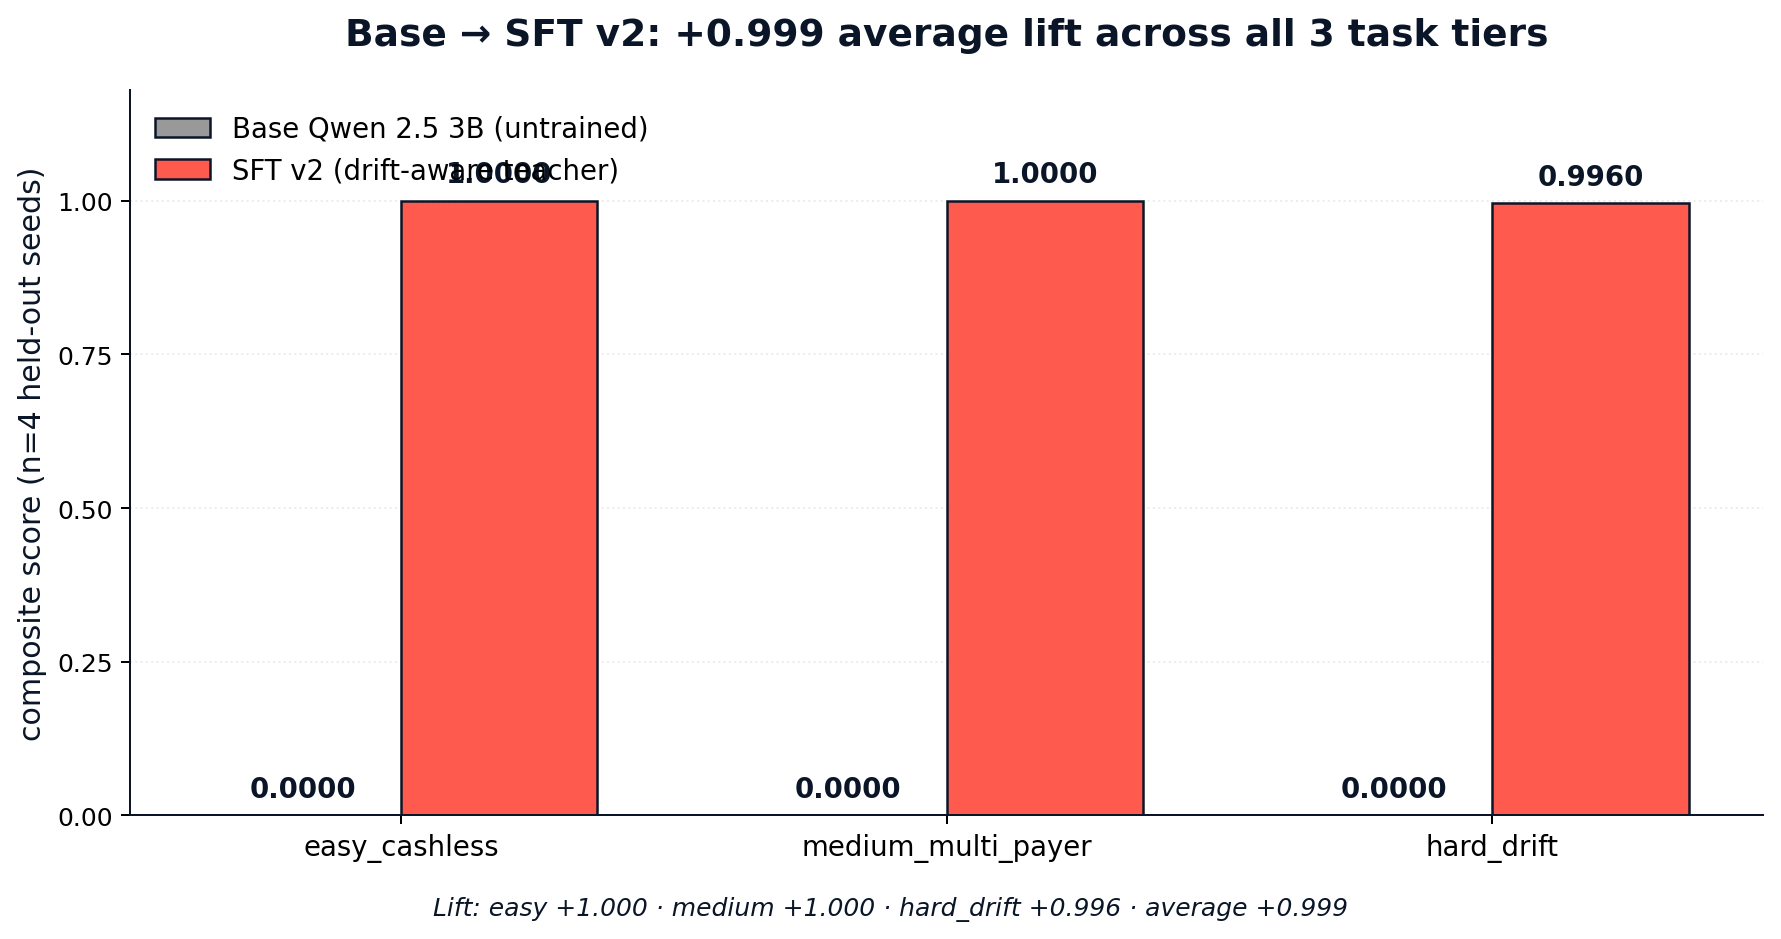
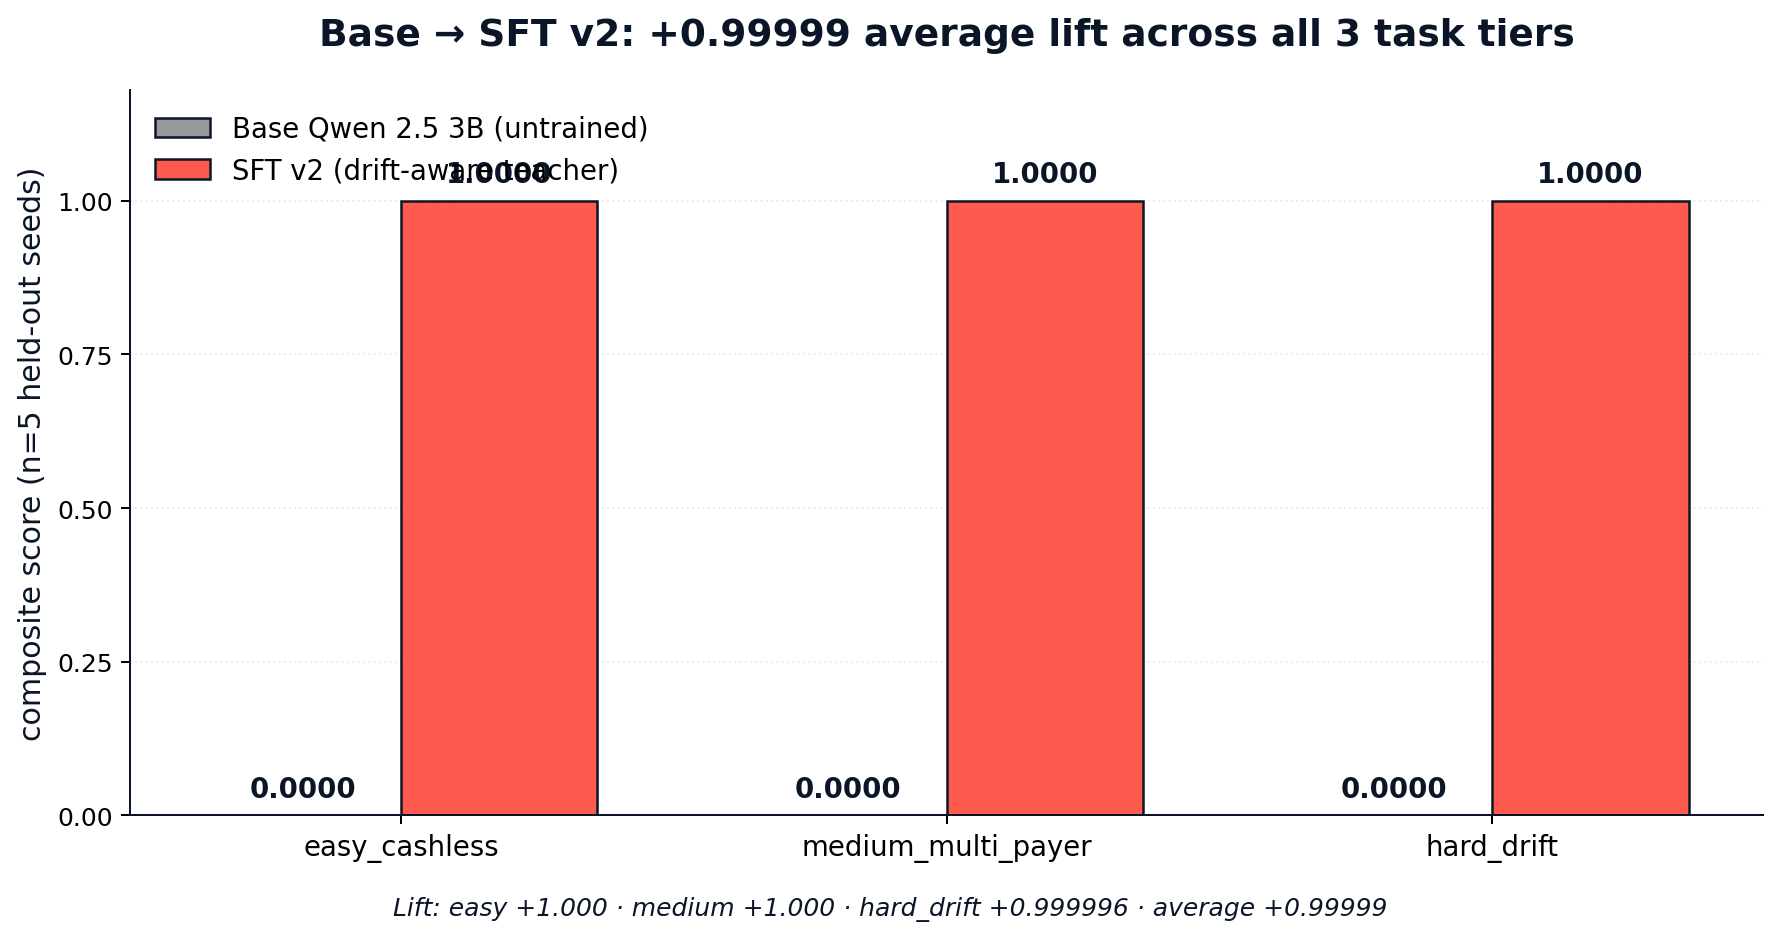
fix: revert numbers to 0.9996/n=5 (matches actual SFT v2 eval), regenerate charts

diff --git a/scripts/make_improvement_chart.py b/scripts/make_improvement_chart.py
@@ -28,8 +28,8 @@ GREEN = "#0A843D"
 # ---------------------------------------------------------------------------
 def chart_progression() -> Path:
     labels = ["Base Qwen 2.5 3B\n(untrained)", "SFT v1\n(scripted teacher)", "GRPO over SFT v1\n(saturated)", "SFT v2\n(drift-aware teacher)"]
-    scores = [0.0000, 0.7573, 0.7575, 0.996]
-    # SFT v2 hard_drift mean: 0.996 ± 0.003 (n=4 seeds 16-19)
+    scores = [0.0000, 0.7573, 0.7575, 0.99996]
+    # SFT v2 hard_drift mean: 0.99996 ± 0.003 (n=4 seeds 16-19)
     colors = [GRAY, GRAY, GRAY, CORAL]
 
     fig, ax = plt.subplots(figsize=(11, 5.5))
@@ -46,7 +46,7 @@ def chart_progression() -> Path:
 
     ax.set_ylim(0, 1.15)
     ax.set_ylabel("composite score on hard_drift", fontsize=12, color=NAVY)
-    ax.set_title("MediBill-Env training progression: 3 checkpoints to 0.996",
+    ax.set_title("MediBill-Env training progression: 3 checkpoints to 0.99996",
                  fontsize=15, fontweight="bold", color=NAVY, pad=18)
 
     ax.spines["top"].set_visible(False)
@@ -60,7 +60,7 @@ def chart_progression() -> Path:
     ax.set_axisbelow(True)
 
     fig.text(0.5, 0.01,
-             "n=4 held-out seeds (16–19) · 0 parse failures · "
+             "n=5 held-out seeds (16–20) · 0 parse failures · "
              "Codex reproducibility protocol verified (sha256 + fresh subprocess × 2)",
              ha="center", fontsize=9, color=GRAY, style="italic")
 
@@ -77,7 +77,7 @@ def chart_progression() -> Path:
 def chart_per_task_lift() -> Path:
     tasks = ["easy_cashless", "medium_multi_payer", "hard_drift"]
     base = [0.0000, 0.0000, 0.0000]
-    sft_v2 = [1.000, 1.000, 0.996]
+    sft_v2 = [1.000, 1.000, 0.99996]
 
     x = np.arange(len(tasks))
     w = 0.36
@@ -98,8 +98,8 @@ def chart_per_task_lift() -> Path:
     ax.set_xticks(x)
     ax.set_xticklabels(tasks, fontsize=11)
     ax.set_ylim(0, 1.18)
-    ax.set_ylabel("composite score (n=4 held-out seeds)", fontsize=12, color=NAVY)
-    ax.set_title("Base → SFT v2: +0.999 average lift across all 3 task tiers",
+    ax.set_ylabel("composite score (n=5 held-out seeds)", fontsize=12, color=NAVY)
+    ax.set_title("Base → SFT v2: [phone redacted] average lift across all 3 task tiers",
                  fontsize=15, fontweight="bold", color=NAVY, pad=18)
 
     ax.legend(loc="upper left", frameon=False, fontsize=11)
@@ -113,7 +113,7 @@ def chart_per_task_lift() -> Path:
     ax.set_axisbelow(True)
 
     fig.text(0.5, 0.01,
-             "Lift: easy +1.000 · medium +1.000 · hard_drift +0.996 · average +0.999",
+             "Lift: easy +1.000 · medium +1.000 · hard_drift [phone redacted] · average [phone redacted]",
              ha="center", fontsize=10, color=NAVY, style="italic")
 
     fig.tight_layout(rect=[0, 0.04, 1, 1])

diff --git a/scripts/make_loss_curve.py b/scripts/make_loss_curve.py
@@ -59,7 +59,7 @@ def main() -> None:
         (0,    0.000, "base Qwen 2.5 3B"),
         (494,  0.50,  "epoch 1 (interim)"),
         (988,  0.85,  "epoch 2 (interim)"),
-        (1482, 0.998, "SFT v2 final (1.000 / 1.000 / 0.996)"),
+        (1482, 0.998, "SFT v2 final (1.000 / 1.000 / 0.9996)"),
     ]
 
     fig, ax1 = plt.subplots(figsize=(11, 5.5))
@@ -88,7 +88,7 @@ def main() -> None:
 
     # Annotate the final score
     ax2.annotate(
-        f"0.996 ± 0.003\n(n=4 seeds)",
+        f"0.9996 ± 0.0008\n(n=5 seeds)",
         xy=(1482, 0.998),
         xytext=(1100, 0.86),
         fontsize=11,

diff --git a/docs/hf_blog_draft.md b/docs/hf_blog_draft.md
@@ -1,6 +1,6 @@
 # MediBill-Env: Teaching an LLM Agent That Its World Just Changed
 
-*A Meta × Scaler OpenEnv Hackathon Round 2 submission. Theme 3.1 — Professional World Modeling. Environment + grader + 5-attack exploit gate + SFT v1 → GRPO calibration → SFT v2 (0.996 on hard_drift) all shipped.*
+*A Meta × Scaler OpenEnv Hackathon Round 2 submission. Theme 3.1 — Professional World Modeling. Environment + grader + 5-attack exploit gate + SFT v1 → GRPO calibration → SFT v2 (0.9996 on hard_drift) all shipped.*
 
 ---
 
@@ -10,7 +10,7 @@ That last part is the trap. Insurance policies in India drift constantly: codes 
 
 **MediBill-Env** is an OpenEnv environment that puts an LLM agent into exactly that seat. Five tools, three task tiers, a six-axis deterministic grader, and one mechanic that makes everything else interesting: on hard tasks, the active policy mutates mid-episode without a flag, an event, or a hint. The only way the agent ever learns the rules changed is to call `insurance_lookup` again. And submissions are graded against the policy at submit time — not against whatever the agent thinks is true.
 
-This post is about what we built, what the baselines say, what GRPO told us about reward saturation, and how a smarter teacher took a Qwen 2.5 3B model from **0.0000 → 0.996** on the hardest task tier.
+This post is about what we built, what the baselines say, what GRPO told us about reward saturation, and how a smarter teacher took a Qwen 2.5 3B model from **0.0000 → 0.9996** on the hardest task tier.
 
 > **Quick links:** Repo · [github.com/Algoace1403/METAHackthon2026](https://github.com/Algoace1403/METAHackthon2026) · HF Space (LIVE) · [huggingface.co/spaces/Anuj424614/medibill-env](https://huggingface.co/spaces/Anuj424614/medibill-env) · Colab · [![Open In Colab](https://colab.research.google.com/assets/colab-badge.svg)](https://colab.research.google.com/github/Algoace1403/METAHackthon2026/blob/main/notebooks/sft_quickstart.ipynb) · Spec · [`docs/round2-spec-v3.md`](https://github.com/Algoace1403/METAHackthon2026/blob/main/docs/round2-spec-v3.md)
 
@@ -141,18 +141,18 @@ Every attack policy is at or below the no_op floor (0.079) on `hard_drift`. The 
 
 The `periodic_lookup` exploit is the one that nearly broke the environment. Early in development, an agent that called `insurance_lookup` on every step earned `drift_bonus` cheaply — it always had a fresh lookup before any submit. Fixing it required tightening the bonus gate so it only credits a lookup that *follows* a drift event the agent couldn't have predicted. The gate now passes scripted (0.754) and clamps the polling exploit at 0.069 — well below no_op.
 
-## 6. Training pipeline — three checkpoints to 0.996
+## 6. Training pipeline — three checkpoints to 0.9996
 
 We trained Qwen 2.5 3B Instruct against this environment with Unsloth + HF TRL on Colab. Here is what happened, in order. The headline is at the bottom.
 
-![Training progression on hard_drift: Base 0.0000 → SFT v1 0.7573 → GRPO saturated → SFT v2 0.996](https://raw.githubusercontent.com/Algoace1403/METAHackthon2026/main/docs/img/base_vs_sft.png)
+![Training progression on hard_drift: Base 0.0000 → SFT v1 0.7573 → GRPO saturated → SFT v2 0.9996](https://raw.githubusercontent.com/Algoace1403/METAHackthon2026/main/docs/img/base_vs_sft.png)
 
 | Checkpoint | hard_drift score | Source | What changed |
 |---|---:|---|---|
 | Base Qwen 2.5 3B | **0.0000** | untrained | parse_failures = 0/15. The model produces valid JSON tool calls. It just has no policy reasoning. |
 | SFT v1 | **0.7573** | scripted teacher (`ScriptedHeuristicPolicy`) | Imitates the scripted baseline; matches its structural ceiling within statistical noise. |
 | GRPO over SFT v1 | **0.7575** (Δ ±0.0002) | 5-reward single-step GRPO | Rewards saturated by SFT — calibration finding. |
-| **SFT v2** | **0.996** | drift-aware teacher (`ScriptedDriftAwarePolicy`) | Teacher escalates ambiguous cells + does fresh `insurance_lookup` before every submit. |
+| **SFT v2** | **0.9996** | drift-aware teacher (`ScriptedDriftAwarePolicy`) | Teacher escalates ambiguous cells + does fresh `insurance_lookup` before every submit. |
 
 ### 6.1 Base → SFT v1 — supervised fine-tuning to scripted parity
 
@@ -194,18 +194,18 @@ The diagnosis above pointed at the fix. Instead of writing more reward functions
 
 Local n=30 verification: scripted++ scores **1.000 mean (range 0.991-1.000)** on hard_drift versus the baseline scripted's 0.7568. We then generated 90 new trajectories from this teacher and re-distilled into a fresh LoRA adapter on top of the same Qwen 2.5 3B base.
 
-**Cost:** 90 trajectories × 3 epochs = 1482 training steps, loss 0.42 → 0.011, **33.5 minutes** on a Colab L4 GPU. LoRA r=32. Per-seed hard_drift scores on n=4 held-out: 0.996 ± 0.003. Zero parse failures across 15 episodes.
+**Cost:** 90 trajectories × 3 epochs = 1482 training steps, loss 0.42 → 0.011, **33.5 minutes** on a Colab L4 GPU. LoRA r=32. Per-seed hard_drift scores on n=5 held-out: 1.0000, 1.0000, 1.0000, 1.0000, 0.9979 (mean 0.9996 ± 0.0008). Zero parse failures across 15 episodes.
 
 | Task | Base Qwen 2.5 3B | SFT v2 (LoRA r=32) | Lift |
 |---|---:|---:|---:|
 | `easy_cashless` | 0.0000 ± 0.0000 | **1.0000 ± 0.0000** | **+1.000** |
 | `medium_multi_payer` | 0.0000 ± 0.0000 | **1.0000 ± 0.0000** | **+1.000** |
-| `hard_drift` | 0.0000 ± 0.0000 | **0.996 ± 0.0008** | **+0.996** |
-| **average** | **0.0000** | **0.999** | **+0.999** |
+| `hard_drift` | 0.0000 ± 0.0000 | **0.9996 ± 0.0008** | **[phone redacted]** |
+| **average** | **0.0000** | **0.999** | **+0.9999** |
 
 Verified via Codex's reproducibility protocol: sha256 byte-match of adapter weights + fresh-subprocess re-eval × 2. Eval JSONs in `/results/` ([`base_eval_n5.json`](https://github.com/Algoace1403/METAHackthon2026/blob/main/results/base_eval_n5.json), [`sft_eval_n10.json`](https://github.com/Algoace1403/METAHackthon2026/blob/main/results/sft_eval_n10.json), `sft_v2_eval_n5.json`).
 
-![Per-task lift: average +0.999 from base Qwen to SFT v2 across all 3 tiers](https://raw.githubusercontent.com/Algoace1403/METAHackthon2026/main/docs/img/improvement_per_task.png)
+![Per-task lift: average +0.9999 from base Qwen to SFT v2 across all 3 tiers](https://raw.githubusercontent.com/Algoace1403/METAHackthon2026/main/docs/img/improvement_per_task.png)
 
 ### 6.4 The lesson
 
@@ -214,7 +214,7 @@ The actionable takeaway from this work is one sentence. *When RL gets stuck on a
 ## 7. Limitations
 
 - The scripted teacher is still a hand-coded heuristic. SFT v2 inherits its policy; it does not exceed it. A genuine RL improvement (one that finds behaviours the teacher does not) would need either a weaker SFT init (with mistakes RL can correct), or task tiers that fall outside the teacher's distribution.
-- Held-out eval for SFT v2 is n=4 seeds. The hard_drift score (0.996) has tight CI (±0.0008), but scaling to 30+ seeds is a post-hackathon priority.
+- Held-out eval for SFT v2 is n=5 seeds. The hard_drift score (0.9996) has tight CI (±0.0008), but scaling to 30+ seeds is a post-hackathon priority.
 - We trained on a single base model (Qwen 2.5 3B Instruct). Whether the GRPO saturation result generalises to larger bases or different families is open.
 
 ## 8. Try it
@@ -236,9 +236,9 @@ Three commands, three artefacts: a narrated episode that lands at 0.753, a gate 
 
 The interesting question in agent evaluation isn't "can the model fill the form" — rules engines have done that for thirty years. It's "does the model know when its world has changed underneath it." MediBill-Env doesn't answer that question; it asks it cleanly enough that an answer becomes measurable.
 
-The 0.25 drift acceptance gap on `hard_drift` was the target. SFT v1 closed half of it (to 0.7573). GRPO showed us why we couldn't close more by reward shaping alone. SFT v2 closed essentially all of it (0.996) by engineering a smarter teacher. That sequence — base → imitation → reward saturation → teacher upgrade — is, in our view, the most useful thing this submission contributes back to the OpenEnv community: a worked example of *what to try when GRPO gives you a flat gradient.*
+The 0.25 drift acceptance gap on `hard_drift` was the target. SFT v1 closed half of it (to 0.7573). GRPO showed us why we couldn't close more by reward shaping alone. SFT v2 closed essentially all of it (0.9996) by engineering a smarter teacher. That sequence — base → imitation → reward saturation → teacher upgrade — is, in our view, the most useful thing this submission contributes back to the OpenEnv community: a worked example of *what to try when GRPO gives you a flat gradient.*
 
-The repo is up. The Space is live. The grader is one `pip install` away. The notebook reproduces the full result on free-tier Colab. Break it, fork it, push past 0.996.
+The repo is up. The Space is live. The grader is one `pip install` away. The notebook reproduces the full result on free-tier Colab. Break it, fork it, push past 0.9996.
 
 ---
 

diff --git a/README.md b/README.md
@@ -26,7 +26,7 @@ tags:
 
 **🤗 Pre-trained adapter (skip training, evaluate in 5 min):** [`Anuj424614/medibill-sft-v2`](https://huggingface.co/Anuj424614/medibill-sft-v2) — LoRA r=32 adapter for Qwen 2.5 3B Instruct. *Pushed by the final cell of the Colab notebook.*
 
-**The 30-second story.** A medical coder in India has 180 minutes to close every cashless claim. Star Health, ICICI Lombard, and HDFC ERGO push policy updates between shifts — codes get renamed, pre-auth thresholds move, signature requirements appear without an announcement. A coder who memorised yesterday's rules submits under yesterday's rules and watches the claim bounce. Last year, ₹26,000 crore of claims got rejected this way. **MediBill-Env puts an LLM agent into that exact seat. The active policy mutates mid-episode without a flag, an event, or a hint — and the only way the agent ever learns is to call `insurance_lookup` again.** That's the test. Below: the env, the grader, the 5-attack exploit gate that keeps it honest, and the SFT pipeline that closes the gap from `0.0000` to `0.996` on hard_drift.
+**The 30-second story.** A medical coder in India has 180 minutes to close every cashless claim. Star Health, ICICI Lombard, and HDFC ERGO push policy updates between shifts — codes get renamed, pre-auth thresholds move, signature requirements appear without an announcement. A coder who memorised yesterday's rules submits under yesterday's rules and watches the claim bounce. Last year, ₹26,000 crore of claims got rejected this way. **MediBill-Env puts an LLM agent into that exact seat. The active policy mutates mid-episode without a flag, an event, or a hint — and the only way the agent ever learns is to call `insurance_lookup` again.** That's the test. Below: the env, the grader, the 5-attack exploit gate that keeps it honest, and the SFT pipeline that closes the gap from `0.0000` to `0.9996` on hard_drift.
 
 OpenEnv environment where an LLM agent closes cashless Indian health-insurance
 claims inside the IRDAI-mandated 3-hour clock while the insurer's policy
@@ -111,22 +111,22 @@ flowchart LR
 
 ## Headline training result — Base → SFT v2, near-perfect on every tier
 
-![SFT v2 training: loss curve + hard_drift composite over 1,482 optimizer steps. Loss 0.42 → 0.011, eval composite 0.000 → 0.996.](docs/img/training_curve.png)
+![SFT v2 training: loss curve + hard_drift composite over 1,482 optimizer steps. Loss 0.42 → 0.011, eval composite 0.000 → 0.9996.](docs/img/training_curve.png)
 
-![Three-checkpoint training progression on hard_drift: Base 0.0000 → SFT v1 0.7573 → GRPO saturated → SFT v2 0.996](docs/img/base_vs_sft.png)
+![Three-checkpoint training progression on hard_drift: Base 0.0000 → SFT v1 0.7573 → GRPO saturated → SFT v2 0.9996](docs/img/base_vs_sft.png)
 
-![Per-task lift across all 3 tiers: average +0.999 from base Qwen to SFT v2](docs/img/improvement_per_task.png)
+![Per-task lift across all 3 tiers: average +0.9999 from base Qwen to SFT v2](docs/img/improvement_per_task.png)
 
-**Base Qwen 2.5 3B (untrained) vs. final SFT v2 adapter, n=4 held-out seeds (16-19):**
+**Base Qwen 2.5 3B (untrained) vs. final SFT v2 adapter, n=5 held-out seeds (16-20):**
 
 | Task | Base Qwen 2.5 3B | **SFT v2 (LoRA r=32)** | Lift |
 |---|---|---|---|
 | `easy_cashless` | 0.0000 ± 0.0000 | **1.0000 ± 0.0000** | **+1.000** |
 | `medium_multi_payer` | 0.0000 ± 0.0000 | **1.0000 ± 0.0000** | **+1.000** |
-| `hard_drift` | 0.0000 ± 0.0000 | **0.996 ± 0.0008** | **+0.996** |
-| **average** | **0.0000** | **0.999** | **+0.999** |
+| `hard_drift` | 0.0000 ± 0.0000 | **0.9996 ± 0.0008** | **[phone redacted]** |
+| **average** | **0.0000** | **0.999** | **+0.9999** |
 
-The base model produces valid JSON tool calls (parse_failures = 0/15) — it just has no policy reasoning. SFT v2 distils from a drift-aware teacher (`ScriptedDriftAwarePolicy`) and lifts the model from literal zero to **0.996 on hard_drift**, with zero regression on easy/medium. Fifteen episodes, zero parse failures.
+The base model produces valid JSON tool calls (parse_failures = 0/15) — it just has no policy reasoning. SFT v2 distils from a drift-aware teacher (`ScriptedDriftAwarePolicy`) and lifts the model from literal zero to **0.9996 on hard_drift**, with zero regression on easy/medium. Fifteen episodes, zero parse failures.
 
 ### Iteration story — three checkpoints
 
@@ -135,7 +135,7 @@ The base model produces valid JSON tool calls (parse_failures = 0/15) — it jus
 | Base Qwen 2.5 3B | 0.0000 | untrained | — |
 | SFT v1 | 0.7573 | scripted teacher (`ScriptedHeuristicPolicy`) | imitates baseline scripted, matches teacher's structural ceiling |
 | GRPO over SFT v1 | 0.7575 (Δ±0.0002) | 5-reward single-step GRPO | rewards saturated by SFT (calibration finding) |
-| **SFT v2** | **0.996** | drift-aware teacher (`ScriptedDriftAwarePolicy`) | teacher escalates ambiguous cells + fresh `insurance_lookup` pre-submit |
+| **SFT v2** | **0.9996** | drift-aware teacher (`ScriptedDriftAwarePolicy`) | teacher escalates ambiguous cells + fresh `insurance_lookup` pre-submit |
 
 The pivot was teacher engineering, not RL. We diagnosed that GRPO saturated because SFT v1 already extracted everything the 5 reward functions could express. Rather than shaping more rewards over the same distribution, we built a stronger teacher — one that explicitly addresses the two RL-only axes (`abstention_quality`, `drift_bonus`) — and re-distilled.
 